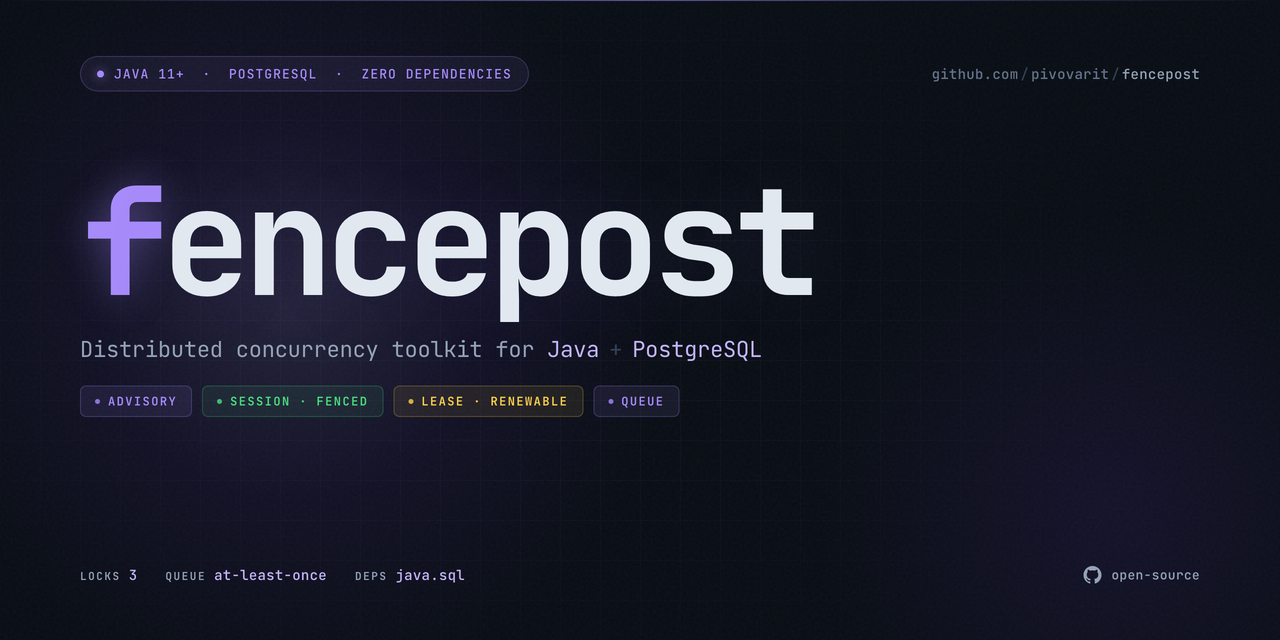
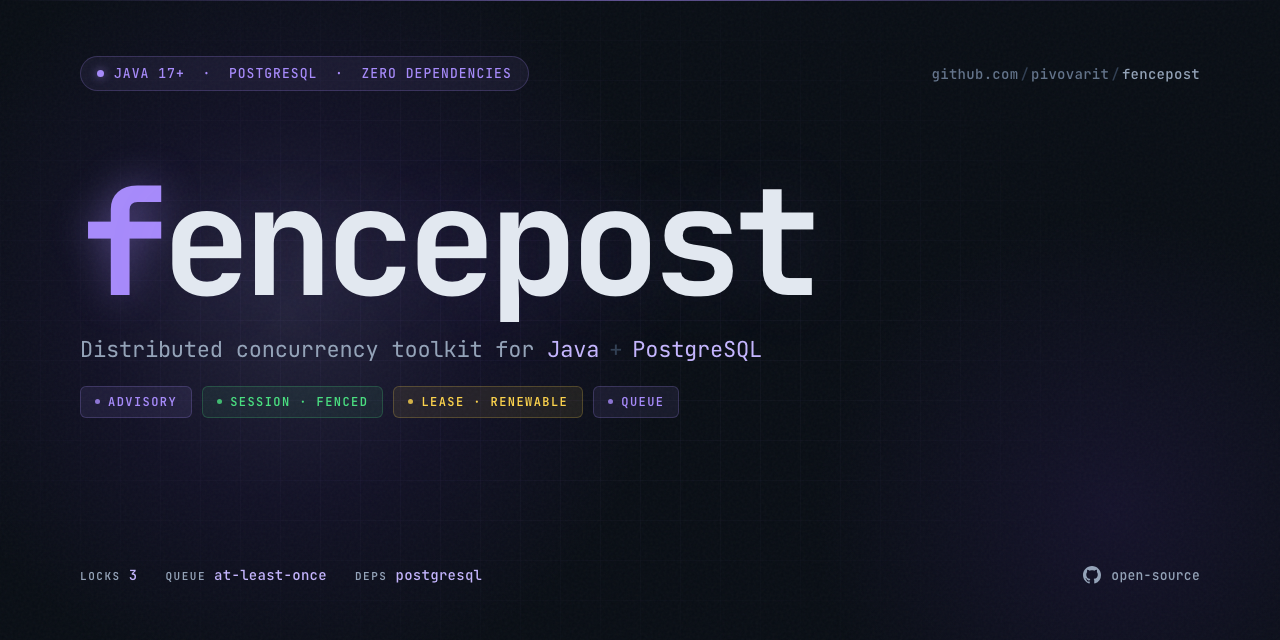
landing page update (#180)

diff --git a/docs/index.html b/docs/index.html
@@ -4,7 +4,7 @@
   <meta charset="UTF-8" />
   <meta name="viewport" content="width=device-width, initial-scale=1.0" />
   <title>fencepost - distributed concurrency toolkit for Java + PostgreSQL</title>
-  <meta name="description" content="Distributed concurrency toolkit for Java + PostgreSQL. Three lock strategies, leader election, a PostgreSQL-backed message queue, and zero dependencies beyond java.sql." />
+  <meta name="description" content="Distributed concurrency toolkit for Java + PostgreSQL. Three lock strategies, leader election, a PostgreSQL-backed message queue, and zero dependencies beyond the PostgreSQL JDBC driver." />
 
   <!-- Favicon -->
   <link rel="icon" type="image/svg+xml" href="favicon.svg" />
@@ -17,14 +17,14 @@
   <meta property="og:url"         content="https://fencepost.pivovarit.com/" />
   <meta property="og:site_name"   content="fencepost" />
   <meta property="og:title"       content="fencepost - distributed concurrency toolkit for Java + PostgreSQL" />
-  <meta property="og:description" content="Distributed concurrency toolkit for Java + PostgreSQL. Three lock strategies, leader election, a PostgreSQL-backed message queue, and zero dependencies beyond java.sql." />
+  <meta property="og:description" content="Distributed concurrency toolkit for Java + PostgreSQL. Three lock strategies, leader election, a PostgreSQL-backed message queue, and zero dependencies beyond the PostgreSQL JDBC driver." />
   <meta property="og:image"       content="https://fencepost.pivovarit.com/social.png" />
 
   <!-- Twitter Card -->
   <meta name="twitter:card"        content="summary_large_image" />
   <meta name="twitter:url"         content="https://fencepost.pivovarit.com/" />
   <meta name="twitter:title"       content="fencepost - distributed concurrency toolkit for Java + PostgreSQL" />
-  <meta name="twitter:description" content="Distributed concurrency toolkit for Java + PostgreSQL. Three lock strategies, leader election, a PostgreSQL-backed message queue, and zero dependencies beyond java.sql." />
+  <meta name="twitter:description" content="Distributed concurrency toolkit for Java + PostgreSQL. Three lock strategies, leader election, a PostgreSQL-backed message queue, and zero dependencies beyond the PostgreSQL JDBC driver." />
   <meta name="twitter:image"       content="https://fencepost.pivovarit.com/social.png" />
 
   <!-- Schema.org structured data -->
@@ -34,7 +34,7 @@
     "@type": "SoftwareApplication",
     "name": "fencepost",
     "url": "https://fencepost.pivovarit.com/",
-    "description": "Distributed concurrency toolkit for Java + PostgreSQL. Three lock strategies, leader election, a PostgreSQL-backed message queue, and zero dependencies beyond java.sql.",
+    "description": "Distributed concurrency toolkit for Java + PostgreSQL. Three lock strategies, leader election, a PostgreSQL-backed message queue, and zero dependencies beyond the PostgreSQL JDBC driver.",
     "applicationCategory": "DeveloperApplication",
     "operatingSystem": "Any",
     "softwareVersion": "latest",
@@ -364,6 +364,10 @@
       top: 10px;
       right: 10px;
     }
+
+    .hero-code .tok-type { color: var(--accent); }
+    .hero-code .tok-str  { color: var(--green); }
+    .hero-code .tok-cmt  { color: var(--text2); font-style: italic; }
 
     .copy-btn {
       font-family: var(--font-mono);
@@ -712,6 +716,7 @@
       <li><a href="#lock-types">Lock Types</a></li>
       <li><a href="#leader-election">Leader Election</a></li>
       <li><a href="#queue">Queue</a></li>
+      <li><a href="#dashboard">Dashboard</a></li>
     </ul>
     <a href="https://github.com/pivovarit/fencepost" class="nav-github" target="_blank" rel="noopener">
       <svg class="icon-gh" viewBox="0 0 24 24" fill="currentColor" aria-hidden="true">
@@ -729,14 +734,14 @@
   <div class="container">
     <div class="hero-badge">
       <span class="dot"></span>
-      Java 11+ &nbsp;&middot;&nbsp; PostgreSQL &nbsp;&middot;&nbsp; Zero Dependencies
+      Java 17+ &nbsp;&middot;&nbsp; PostgreSQL &nbsp;&middot;&nbsp; Zero Dependencies
     </div>
     <h1 class="hero-title">
       <span class="t-accent">f</span>encepost
     </h1>
     <p class="hero-subtitle">Distributed concurrency toolkit for Java + PostgreSQL.</p>
     <p class="hero-desc">
-      Three lock strategies, leader election, a PostgreSQL-backed message queue, and zero dependencies beyond <code>java.sql</code>.
+      Three lock strategies, leader election, a PostgreSQL-backed message queue, and zero dependencies beyond <code>org.postgresql:postgresql</code>.
     </p>
     <div class="hero-ctas">
       <a href="#lock-types" class="btn-primary">
@@ -749,6 +754,14 @@
         </svg>
         GitHub
       </a>
+    </div>
+    <div class="hero-install-multi hero-code">
+      <button class="copy-btn" data-copy="LockFactory&lt;FencedLock&gt; locks = Fencepost.Locks.session(dataSource).build();&#10;&#10;locks.forName(&quot;orders&quot;).runLocked(token -&gt; {&#10;    externalStore.write(data, token.value()); // fencing token blocks stale writes&#10;});">copy</button>
+      <pre><span class="tok-type">LockFactory</span>&lt;<span class="tok-type">FencedLock</span>&gt; locks = <span class="tok-type">Fencepost</span>.Locks.session(dataSource).build();
+
+locks.forName(<span class="tok-str">"orders"</span>).runLocked(token -&gt; {
+    externalStore.write(data, token.value());   <span class="tok-cmt">// fencing token blocks stale writes</span>
+});</pre>
     </div>
   </div>
 </section>
@@ -907,6 +920,50 @@
           <span class="feature-badge badge-green">auto ack / nack</span>
           <span class="feature-badge badge-violet">concurrency</span>
           <span class="feature-badge badge-yellow">error handling</span>
+        </div>
+      </div>
+    </div>
+  </div>
+</section>
+
+<!-- ── Dashboard ───────────────────────────────────────────────────────────── -->
+<section id="dashboard" style="border-top: 1px solid var(--border2);">
+  <div class="container">
+    <div class="section-head">
+      <p class="section-label">Observability</p>
+      <h2 class="section-title">See your locks and queues live.</h2>
+      <p class="section-desc">A built-in dashboard that streams the state of every lock and queue straight from PostgreSQL — no extra infrastructure to run.</p>
+    </div>
+
+    <div class="features-grid" style="grid-template-columns: repeat(3, 1fr);">
+      <div class="feature-card reveal reveal-delay-1">
+        <div class="feature-icon">sse</div>
+        <h3 class="feature-title">live updates</h3>
+        <p class="feature-desc">Pushes updates over Server-Sent Events, driven by PostgreSQL <code>LISTEN/NOTIFY</code> as messages flow — with an automatic polling fallback if the stream drops.</p>
+        <div class="feature-badges">
+          <span class="feature-badge badge-green">LISTEN/NOTIFY</span>
+          <span class="feature-badge badge-violet">SSE</span>
+          <span class="feature-badge badge-yellow">poll fallback</span>
+        </div>
+      </div>
+
+      <div class="feature-card reveal reveal-delay-2">
+        <div class="feature-icon">obs</div>
+        <h3 class="feature-title">locks &amp; queues at a glance</h3>
+        <p class="feature-desc">Every lock's holder, fencing token, and status — held / quiet / free — plus per-queue depth: total, visible, in-flight, and oldest-message age, with drill-down to individual messages.</p>
+        <div class="feature-badges">
+          <span class="feature-badge badge-violet">locks + queues</span>
+          <span class="feature-badge badge-green">drill-down</span>
+        </div>
+      </div>
+
+      <div class="feature-card reveal reveal-delay-3">
+        <div class="feature-icon">run</div>
+        <h3 class="feature-title">zero-config server</h3>
+        <p class="feature-desc">Runs on the JDK's built-in HTTP server. <code>new FencepostDashboard(dataSource).start()</code>, then open <code>localhost:3388</code> — no web framework, no extra dependency.</p>
+        <div class="feature-badges">
+          <span class="feature-badge badge-violet">built-in server</span>
+          <span class="feature-badge badge-yellow">no extra deps</span>
         </div>
       </div>
     </div>

diff --git a/docs/social.html b/docs/social.html
@@ -242,7 +242,7 @@
   <div class="top">
     <div class="badge">
       <span class="dot"></span>
-      Java 11+ &nbsp;·&nbsp; PostgreSQL &nbsp;·&nbsp; Zero Dependencies
+      Java 17+ &nbsp;·&nbsp; PostgreSQL &nbsp;·&nbsp; Zero Dependencies
     </div>
     <div class="repo">
       github.com<span class="slash">/</span>pivovarit<span class="slash">/</span><span class="name">fencepost</span>
@@ -267,7 +267,7 @@
     <div class="meta">
       <div class="item"><span class="k">locks</span><span class="v">3</span></div>
       <div class="item"><span class="k">queue</span><span class="v">at-least-once</span></div>
-      <div class="item"><span class="k">deps</span><span class="v">java.sql</span></div>
+      <div class="item"><span class="k">deps</span><span class="v">postgresql</span></div>
     </div>
     <div class="marker">
       <svg viewBox="0 0 24 24" aria-hidden="true">
